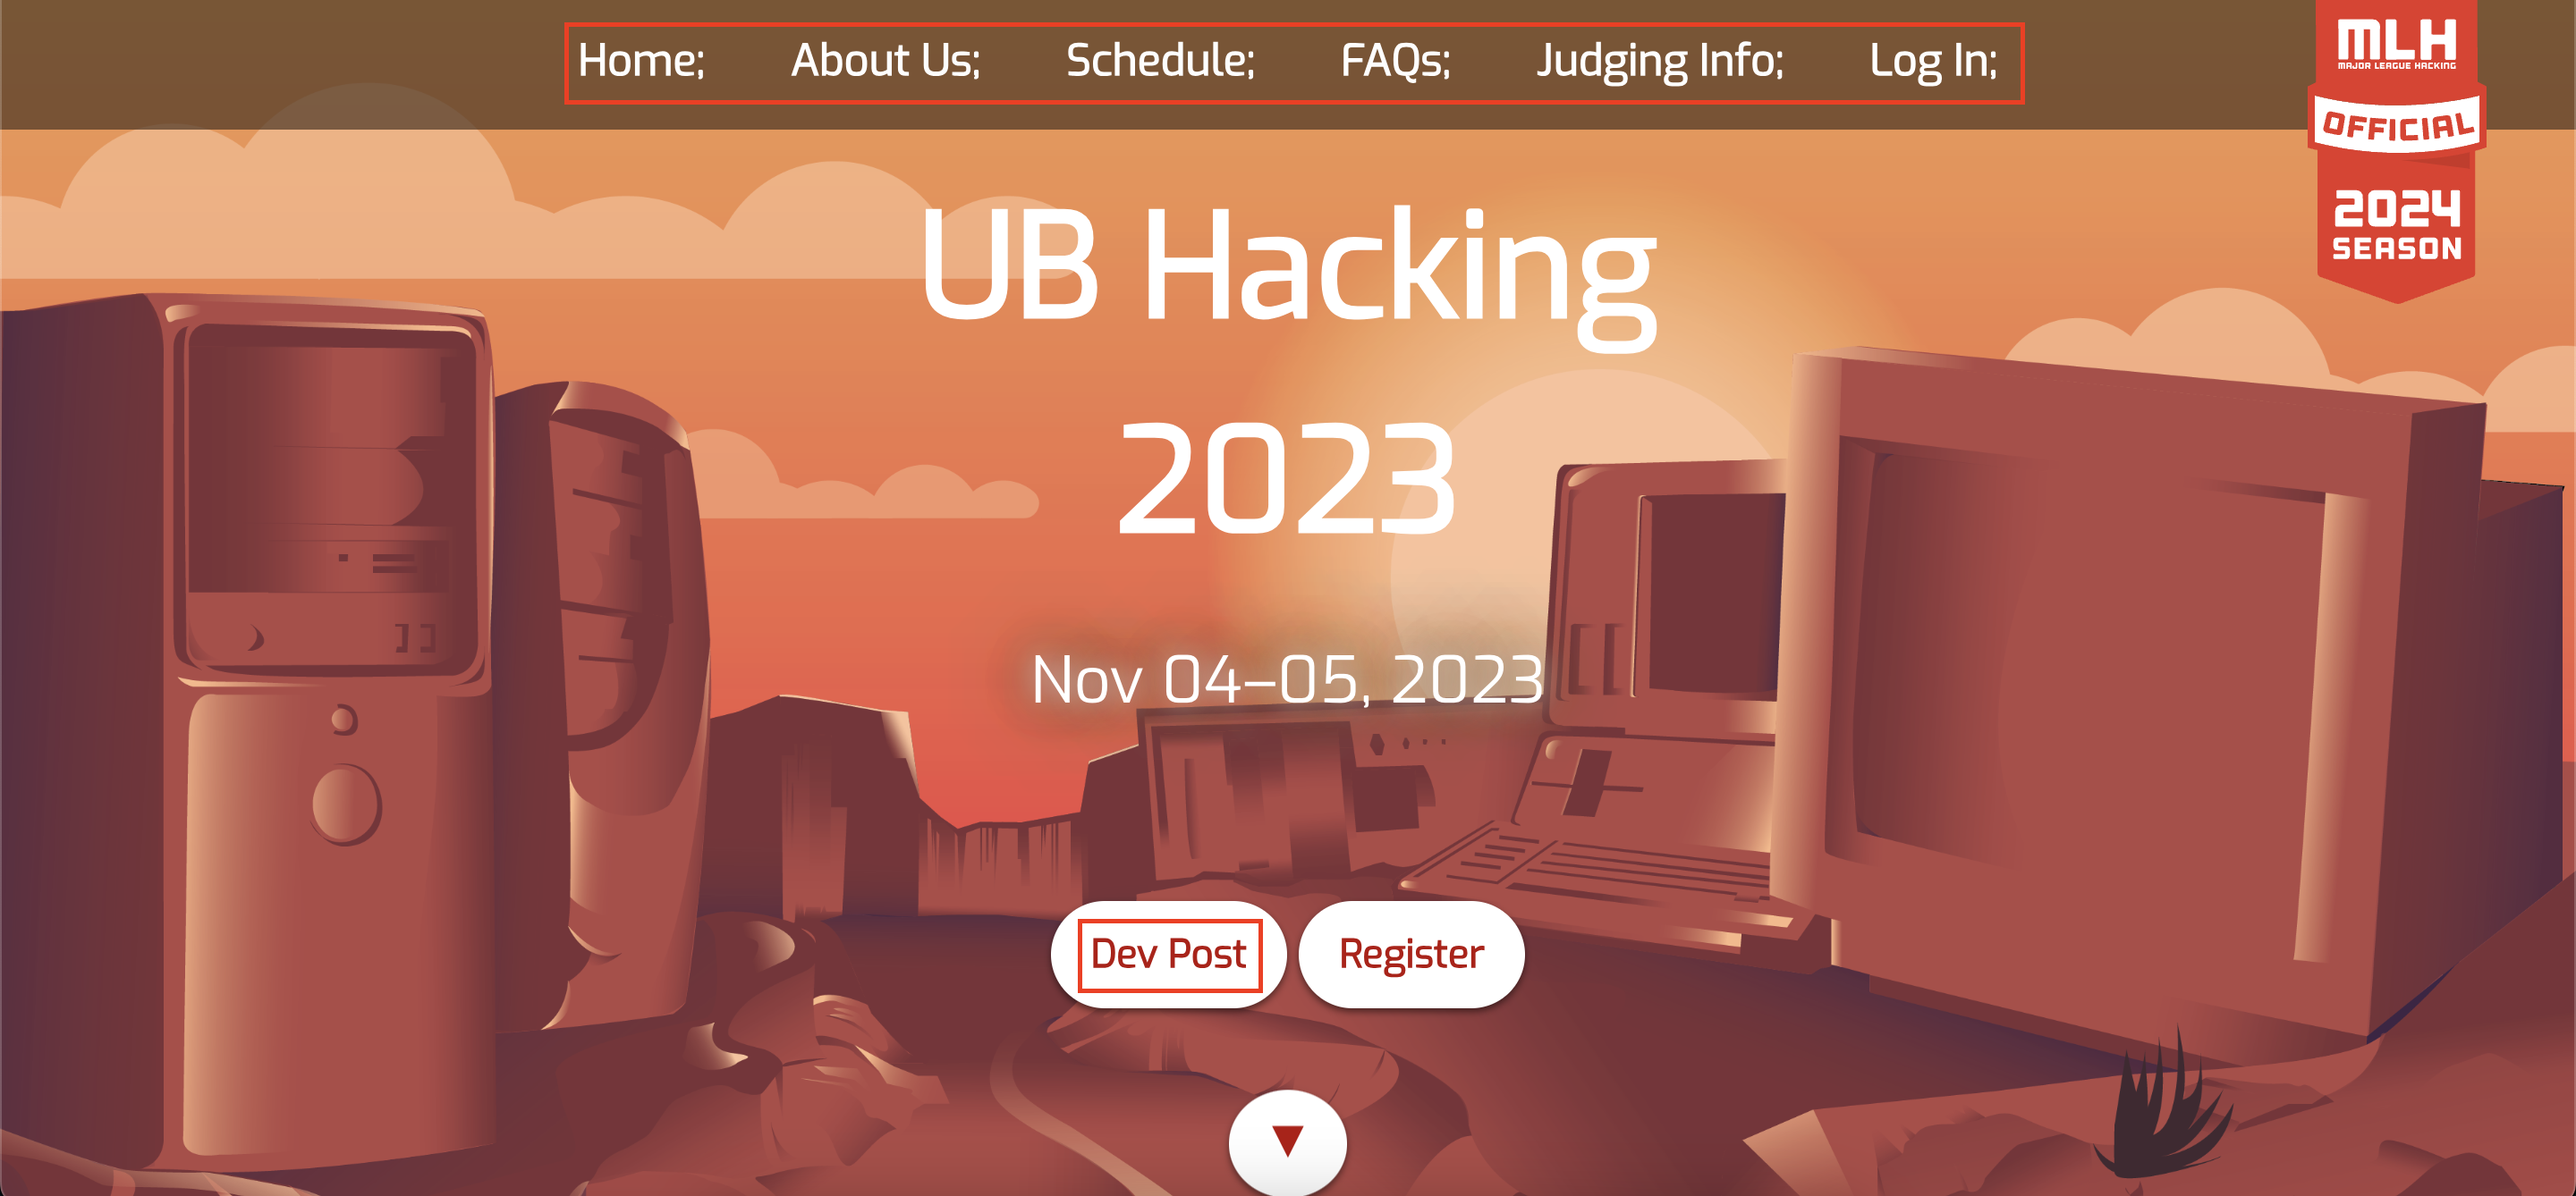
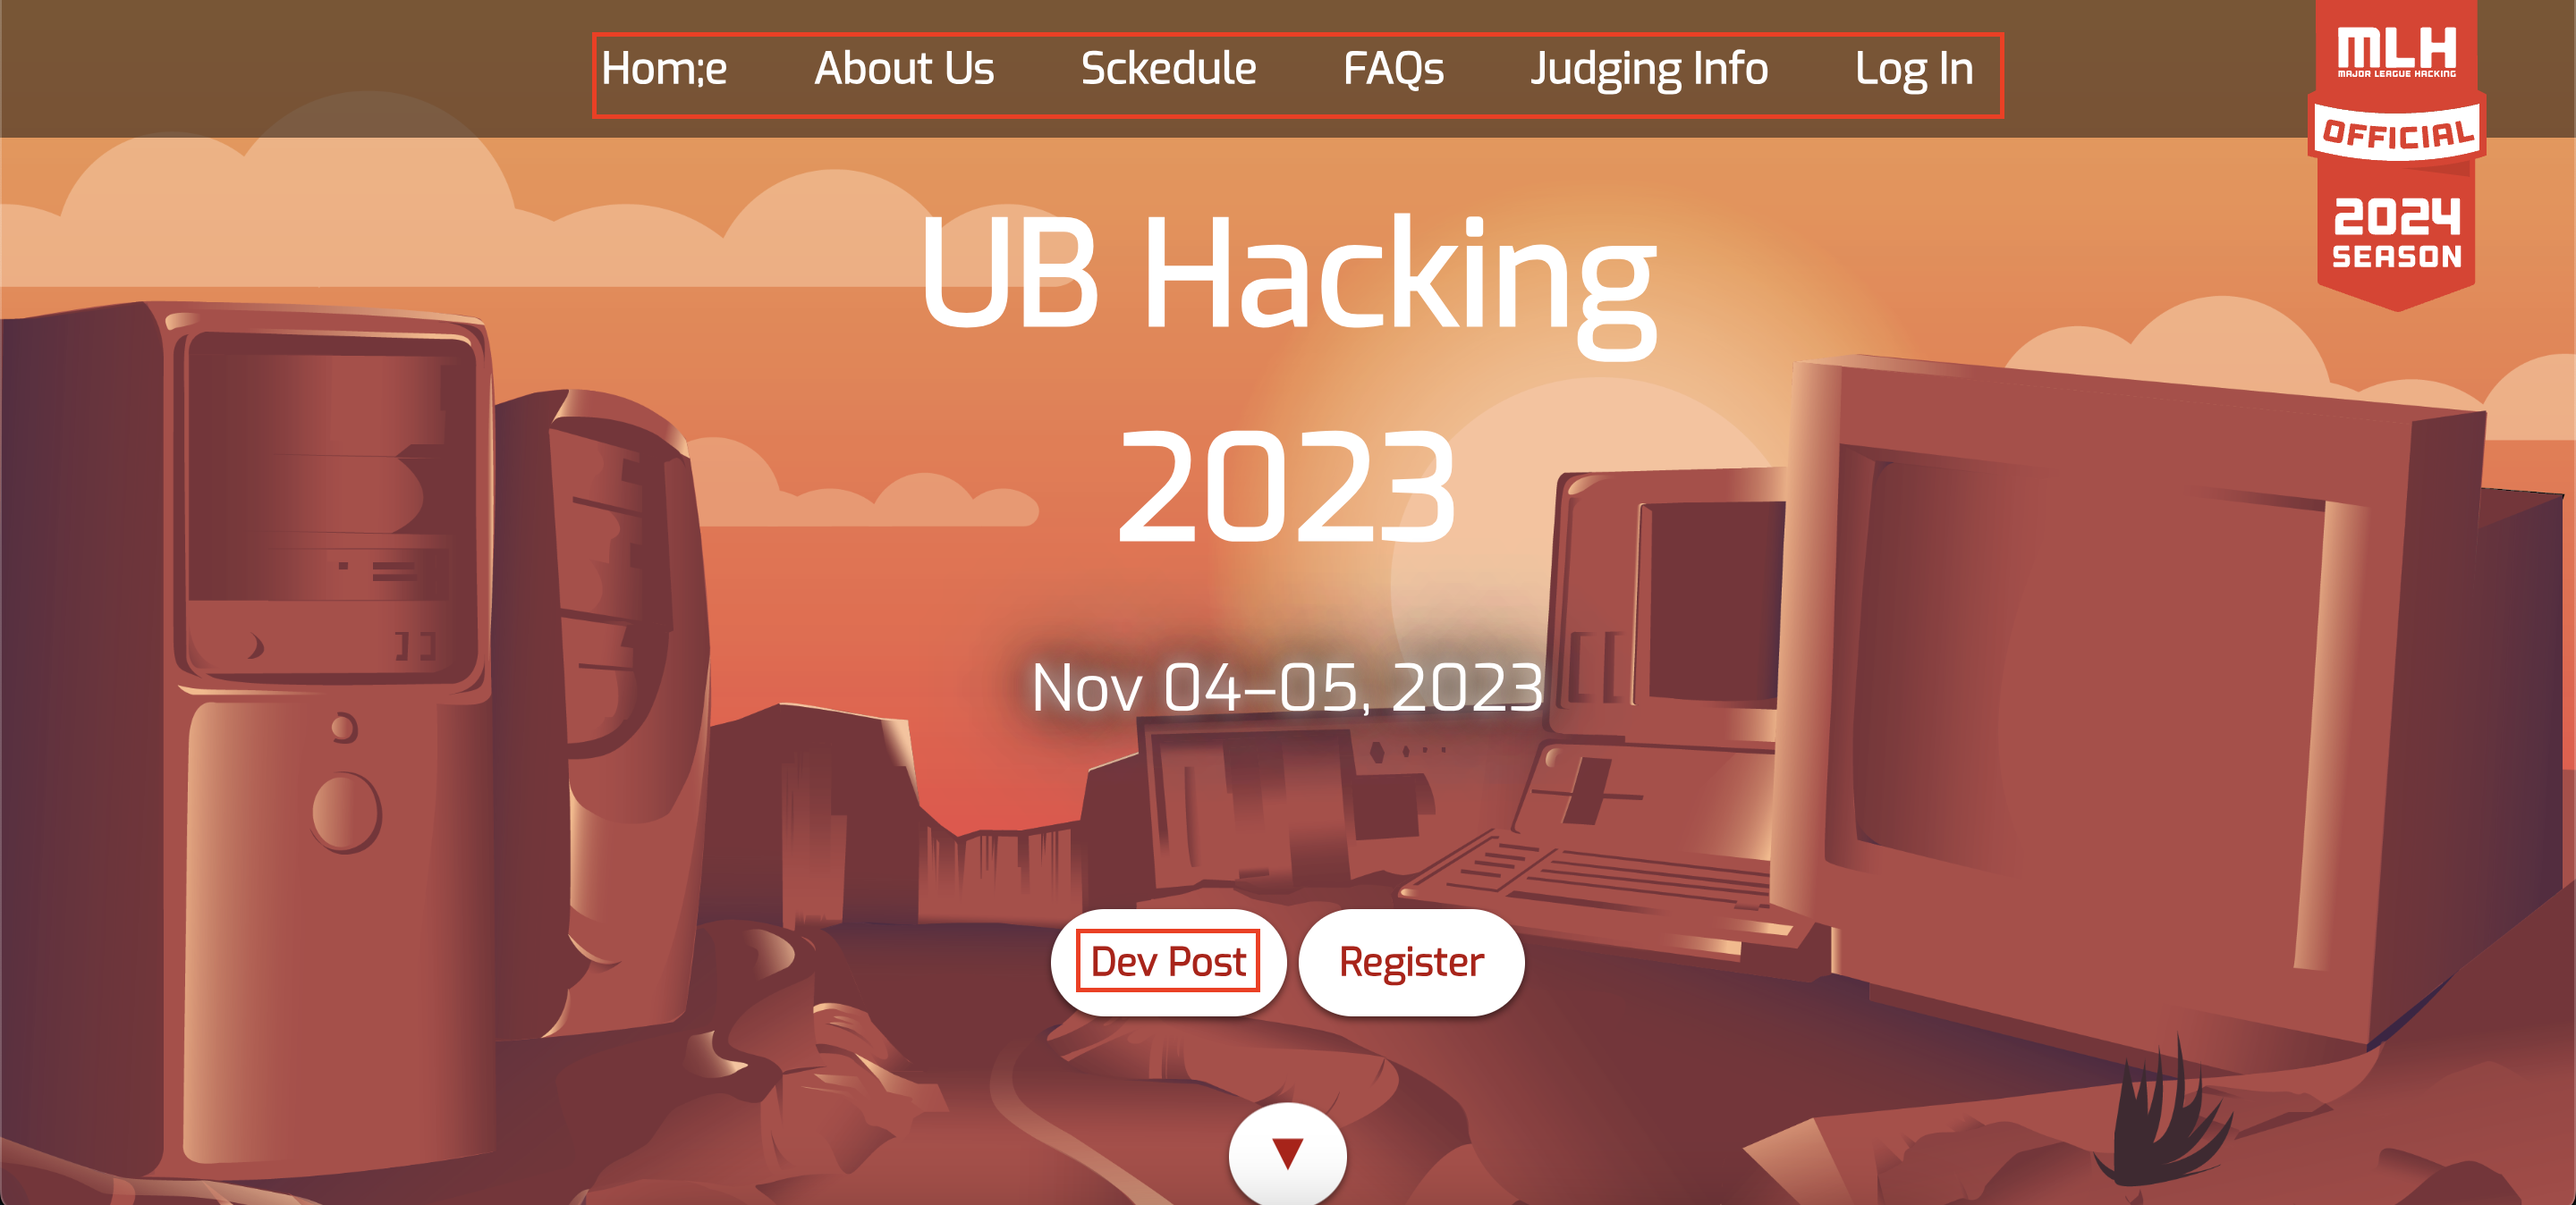
More changes to phished page!

diff --git a/backend/templates/phished.html b/backend/templates/phished.html
@@ -48,31 +48,45 @@
 		
 <link rel="stylesheet" href="https://cdnjs.cloudflare.com/ajax/libs/font-awesome/4.7.0/css/font-awesome.min.css" />
     
-	<h1 class="show-for-sr center">UB Hacking</h1>
+	<h1 class="show-for-sr center">UB Hacking 2023</h1>
 	<div class="centered-div">
-    <a  href="https://imgflip.com/i/84xreo"><img style="width: 30%;" src="https://i.imgflip.com/84xreo.jpg" title="made at imgflip.com"/></a>
-        <h1>Phishing is a very cost effective scam, that doesn't take much to create and those who aren't the most tech savvy are vulnerable to this</h1>
+    <img style="width: 40%; border: 1px solid black;" src="https://i.imgflip.com/84xreo.jpg" title="made at imgflip.com"/>
+        <h2>Phishing is a very cost-effective attack that doesn't take much time to create. In fact the UBHacking website took no longer than 10 minutes to imitate.</h2>
         <br>
-        <h1>In fact the UBHacking website took no longer than 10 minutes to imitate</h1>
+        <h2>People with all levels of technological experience are vulnerable to phishing.</h2>
         <br>
-        <h1 style="padding-bottom: 3%;">Here are some Tips to avoid falling for Phishing </h1>
+        <h2 style="padding-bottom: 3%;">Here are some tips to avoid getting phished:</h2>
         <div class="left">
-          <h2>1. Always check the source of the link, are they reputable? Are they trying to impersonate a reputable person/organization?</h2>
-          <h2>2. If you do fall for the phishing email, immediately change all accounts that use the same passwords</h2>
-          <h2>3. Always look for mistakes on the website, usually occurs because targets of phishing are those who are gullible, if you are keen you will notice unusual differences</h2>
+          <p>• Always check the source of the link, are they reputable? Are they trying to impersonate a reputable person/organization?</p>
+          <p>• If you do fall for the phishing email, immediately change all accounts that use the same passwords</p>
+          <p>• Always look for mistakes on the website. Phishing attacks can be more successful when targets are not looking close enough.</p>
         </div>
 
         <br> 
         <h2>Here are some examples:</h2>
-        <h2>Image doesn't load properly</h2>
-        <img style="width: 80%;"src="../static/Sponsor_differences.png"/>
-        <h2>Typos</h2>
-        <img style="width: 80%;"src="../static/Home_differences.png"/>
-        <h2>Griefing</h2>
-        <img style="width: 80%;"src="../static/meet_diff.png"/>
-        <h2>Exaggerated information</h2>
-        <img style="width: 80%;"src="../static/About_differences.png"/>
+        <h3>Similar Domains:</h3>
+        <img class="error_image" src="../static/url_diff.png"/>
+        <p>Note: The UBHacking domain is used with the .org extension as opposed to the correct .com</p>
+        <h3>Typos:</h3>
+        <img class="error_image" src="../static/Home_differences.png"/>
+        <p>Note: The "Home", "Schedule", and "DevPost" buttons are misspelt.</p>
+        <h3>Exaggerated information:</h3>
+        <img class="error_image" src="../static/About_differences.png"/>
+        <p>Note: Information is exaggerated to possibly entice victims.</p>
+        <h3>Images not loading properly:</h3>
+        <img class="error_image" src="../static/Sponsor_differences.png"/>
+        <p>Note: Attackers may not have access to all assets they are trying to imitate.</p>
+        <h3>Griefing:</h3>
+        <img class="error_image" src="../static/meet_diff.png"/>
+        <p>Note: Unsecure websites may have been modified by malicious users.</p>
 
+        <br>
+    <h3>In summary, staying vigilant is essential to protect yourself from phishing attacks.
+        Recognize common tactics, verify links/urls, and think twice before submitting sensitive information to reduce risks in the digital realm.</h3>
+
+        <br>
+        <h4>Visit <a href="https://www.phishing.org/phishing-resources" name="good job!">https://www.phishing.org/phishing-resources</a> for additional phishing resources.</h4>
+            <p>Hint: inspecting and verifying the address of this link is a great way to put what you've learned to practice.</p>
         
     </div>
 	</body>

diff --git a/backend/templates/index.html b/backend/templates/index.html
@@ -71,18 +71,18 @@
     <div class="home-top-bar top-bar-container">
       <div class="top-bar" id="responsive-menu">
         <ul class="menu vertical medium-horizontal center-container">
-          <li><a href="#header"><b>Home;</b></a></li>
-          <li><a href="#about"><b>About Us;</b></a></li>
-          <li><a href="/users/log-in/"><b>Schedule;</b></a></li>
+          <li><a href="#header"><b>Hom;e</b></a></li>
+          <li><a href="#about"><b>About Us</b></a></li>
+          <li><a href="/users/log-in/"><b>Sckedule</b></a></li>
           
           
            
-            <li><a href="#faqs"><b>FAQs;</b></a></li>
+            <li><a href="#faqs"><b>FAQs</b></a></li>
           
           
-          <li><a href="/users/log-in/"><b>Judging Info;</b></a></li>
+          <li><a href="/users/log-in/"><b>Judging Info</b></a></li>
           
-            <li><a href="/users/log-in/"><b>Log In;</b></a></li>
+            <li><a href="/users/log-in/"><b>Log In</b></a></li>
             
           
         </ul>

diff --git a/backend/CSS/styles.css b/backend/CSS/styles.css
@@ -17,3 +17,8 @@ body{
 .center{
     text-align: center;
 }
+
+.error_image {
+    border: 1px solid black;
+    width: 100%;
+}
